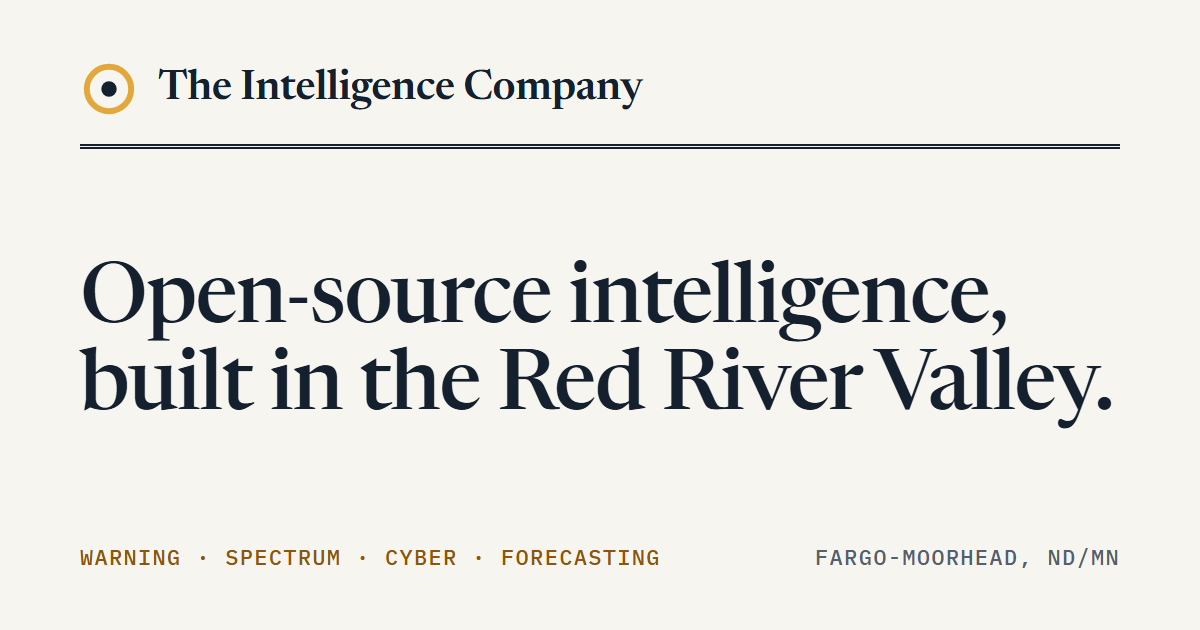
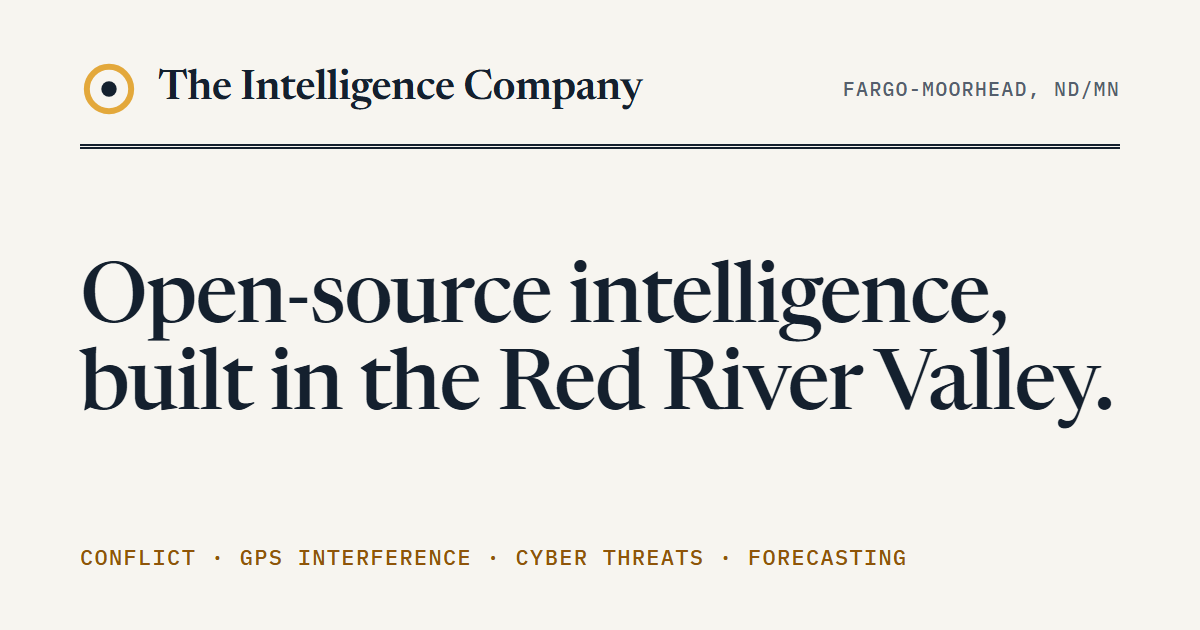
Hub: bio, headshot, LinkedIn, (c) notice, plain summaries, real screenshots, Elements and Cordon
- About: reworded bio ("He has served in the Air National Guard for 25 years..."),
  Tom's headshot (img/thomas-brummer.webp) and a LinkedIn link; founder image and
  sameAs in the JSON-LD.
- "(c) 2026 Thomas Brummer" under the drawing and first in both footers.
- Every Latest line opens with a bold topic (GPS interference, Conflict warning,
  Cyber threats); setItem fills only .latest-body. "GPS" replaces "GNSS" and "the
  contested radio spectrum"; top line "Conflict · GPS interference · Cyber threats
  · Forecasting"; preview card re-rendered.
- Screenshots of the real sites with real data: Noisefloor's Today page,
  Watchfloor's 30 Oct zone board, Vigil's signed-in Threat Actors view (group
  names only). Old images removed.
- Elements and Cordon shown as beta with links and guide questions; their lines
  say what v0 covers and what is planned. Also in the product list and 404.

Changed region(s): [[0.0617, 0.8746, 0.5858, 0.9048], [0.6167, 0.8746, 0.9558, 0.9048], [0.7092, 0.1206, 0.9558, 0.1508]]

diff --git a/site/index.html b/site/index.html
@@ -5,24 +5,25 @@
 <meta name="viewport" content="width=device-width, initial-scale=1">
 <title>The Intelligence Company · OSINT from Fargo-Moorhead, ND/MN</title>
 <link rel="canonical" href="https://theintelligence.company/">
-<meta name="description" content="Open-source intelligence tools from Fargo-Moorhead, ND/MN: conflict warning, the contested radio spectrum, cyber threats and verified forecasting.">
+<meta name="description" content="Open-source intelligence tools from Fargo-Moorhead, ND/MN: conflict warning, GPS jamming and spoofing, cyber threats and verified forecasting.">
 <meta property="og:type" content="website">
 <meta property="og:site_name" content="The Intelligence Company">
 <meta property="og:title" content="The Intelligence Company">
-<meta property="og:description" content="Open-source intelligence tools from Fargo-Moorhead, ND/MN: conflict warning, the contested radio spectrum, cyber threats and verified forecasting.">
+<meta property="og:description" content="Open-source intelligence tools from Fargo-Moorhead, ND/MN: conflict warning, GPS jamming and spoofing, cyber threats and verified forecasting.">
 <meta property="og:url" content="https://theintelligence.company/">
 <meta property="og:image" content="https://theintelligence.company/img/og-card.png">
 <meta property="og:image:width" content="1200">
 <meta property="og:image:height" content="630">
-<meta property="og:image:alt" content="The Intelligence Company: open-source intelligence, built in the Red River Valley. Warning, spectrum, cyber and forecasting, from Fargo-Moorhead, ND/MN.">
+<meta property="og:image:alt" content="The Intelligence Company: open-source intelligence, built in the Red River Valley. Conflict, GPS interference, cyber threats and forecasting, from Fargo-Moorhead, ND/MN.">
 <meta name="twitter:card" content="summary_large_image">
 <script type="application/ld+json">
 {"@context": "https://schema.org", "@graph": [
   {"@type": "Organization", "@id": "https://theintelligence.company/#org", "name": "The Intelligence Company",
    "url": "https://theintelligence.company/", "logo": "https://theintelligence.company/img/logo-512.png",
    "email": "support@theintelligence.company",
-   "description": "Open-source intelligence tools from publicly available information: conflict warning, the contested radio spectrum, cyber threats and verified forecasting.",
-   "founder": {"@type": "Person", "name": "Thomas Brummer"},
+   "description": "Open-source intelligence tools from publicly available information: conflict warning, GPS jamming and spoofing, cyber threats and verified forecasting.",
+   "founder": {"@type": "Person", "name": "Thomas Brummer", "image": "https://theintelligence.company/img/thomas-brummer.webp",
+     "sameAs": ["https://www.linkedin.com/in/tom-brummer/"]},
    "address": {"@type": "PostalAddress", "addressLocality": "Fargo", "addressRegion": "ND", "addressCountry": "US"}},
   {"@type": "WebSite", "@id": "https://theintelligence.company/#website", "name": "The Intelligence Company",
    "url": "https://theintelligence.company/", "publisher": {"@id": "https://theintelligence.company/#org"}}
@@ -70,10 +71,10 @@
 <main id="main">
   <section class="wrap hero">
     <div>
-      <p class="kicker">Warning · Spectrum · Cyber · Forecasting</p>
+      <p class="kicker">Conflict · GPS interference · Cyber threats · Forecasting</p>
       <h1>Open-source intelligence, built in the Red River Valley.</h1>
       <p class="lede">We build monitoring and analysis tools from publicly available information: warning on conflict,
-        the contested radio spectrum, cyber threats, and forecasts that check themselves. Every product credits its
+        GPS jamming and spoofing, cyber threats, and forecasts that check themselves. Every product credits its
         sources, dates its claims and publishes its methods.</p>
       <p class="actions">
         <a class="btn" href="#products">See the products</a>
@@ -85,17 +86,17 @@
       <h2 id="latest-h" class="label">Latest from the products</h2>
       <article class="latest-item" id="latest-noisefloor">
         <p class="latest-meta">Noisefloor</p>
-        <p class="latest-text">Today's briefing on GPS interference worldwide, from aircraft, satellite and official sources.</p>
+        <p class="latest-text"><b class="latest-topic">GPS interference:</b> <span class="latest-body">A daily briefing on where satellite navigation is being jammed or spoofed, from aircraft, satellite and official sources.</span></p>
         <a class="latest-link" href="https://noisefloor.theintelligence.company" target="_blank" rel="noopener" aria-describedby="newtab">Open Noisefloor <span aria-hidden="true">↗</span></a>
       </article>
       <article class="latest-item" id="latest-watchfloor">
         <p class="latest-meta">Watchfloor</p>
-        <p class="latest-text">How the world's news covered each conflict zone yesterday, against its own usual level.</p>
+        <p class="latest-text"><b class="latest-topic">Conflict warning:</b> <span class="latest-body">How much the world's news covered each conflict zone yesterday, against its own usual level.</span></p>
         <a class="latest-link" href="https://watchfloor.theintelligence.company" target="_blank" rel="noopener" aria-describedby="newtab">Open Watchfloor <span aria-hidden="true">↗</span></a>
       </article>
       <article class="latest-item" id="latest-vigil">
         <p class="latest-meta">Vigil</p>
-        <p class="latest-text">New victim claims on ransomware leak sites, counted by group, with the evidence kept.</p>
+        <p class="latest-text"><b class="latest-topic">Cyber threats:</b> <span class="latest-body">New victim claims on ransomware leak sites, counted by group, with the evidence kept.</span></p>
         <a class="latest-link" href="https://vigil.theintelligence.company" target="_blank" rel="noopener" aria-describedby="newtab">Open Vigil <span aria-hidden="true">↗</span></a>
       </article>
     </aside>
@@ -392,7 +393,7 @@
           </ul>
         </figure>
       </div>
-      <p class="oe-src">Drawing adapted from JP 2-01.3, <cite>Joint Intelligence Preparation of the Operational
+      <p class="oe-src">Drawing &copy; 2026 Thomas Brummer, adapted from JP 2-01.3, <cite>Joint Intelligence Preparation of the Operational
         Environment</cite> (21 May 2014), Figure I-1, &ldquo;Holistic View of the Operational Environment&rdquo;, with
         cyberspace&rsquo;s layers from pages III-22 to III-23. The human, informational and physical aspects follow the
         <cite>Joint Concept for Operating in the Information Environment</cite> (25 July 2018). Only publicly released
@@ -410,25 +411,26 @@
         <div>
           <p class="meta">Warning and monitoring · <span class="st-live">Live</span></p>
           <h3 class="feature-h">Noisefloor</h3>
-          <p class="feature-text">Where the radio spectrum is contested: GNSS jamming and spoofing, and what it does to
-            navigation and satellite links. Measures effects and states its evidence.</p>
+          <p class="feature-text">GPS interference worldwide: where satellite navigation is being jammed or spoofed,
+            mapped every day from aircraft and ship position reports, and what it does to navigation and satellite links.
+            Measures effects and states its evidence.</p>
           <ul class="points">
             <li>A daily map of where aircraft lost GPS, every day since 1 October 2025</li>
-            <li>Spoofing, satellite noise floor and radar-emitter layers</li>
+            <li>Layers for GPS spoofing, radio noise measured from orbit, and radar emitters</li>
             <li>Every object in the geostationary belt on a globe</li>
           </ul>
           <a class="more" href="https://noisefloor.theintelligence.company" target="_blank" rel="noopener" aria-describedby="newtab">Open Noisefloor <span aria-hidden="true">↗</span></a>
         </div>
         <figure>
-          <img src="img/noisefloor-map.webp" width="1600" height="909" loading="lazy" alt="Noisefloor map of North America, Europe, Africa and the Middle East, with cells where aircraft lost GPS shaded orange and brown around the Baltic, the Black Sea and the Gulf">
-          <figcaption>Noisefloor's map of where aircraft lost GPS (screenshot, 28 Oct 2026).</figcaption>
+          <img src="img/noisefloor-today.webp" width="1600" height="1000" loading="lazy" alt="Noisefloor's Today page for 30 Oct 2026: the day's briefing, counts of areas with GPS interference, active spoofing episodes and aircraft over Kaliningrad sending no GPS position, and a map of where aircraft lost GPS over northern Europe">
+          <figcaption>Noisefloor's daily briefing on GPS interference (screenshot, 31 Oct 2026).</figcaption>
         </figure>
       </div>
 
       <div class="feature feature-rev">
         <figure>
-          <img src="img/watchfloor.webp" width="1600" height="1029" loading="lazy" alt="Watchfloor's table of conflict zones with story counts and each zone's attention against its typical level">
-          <figcaption>Watchfloor's zone board (screenshot, 28 Oct 2026).</figcaption>
+          <img src="img/watchfloor-zones.webp" width="1600" height="1000" loading="lazy" alt="Watchfloor's zone board for 30 Oct 2026: conflict zones with story counts, news attention against each zone's usual level, and reported violence against its usual level">
+          <figcaption>Watchfloor's zone board for 30 Oct 2026 (screenshot, 31 Oct 2026).</figcaption>
         </figure>
         <div>
           <p class="meta">Warning and monitoring · <span class="st-beta">Beta</span></p>
@@ -453,18 +455,20 @@
           <a class="more" href="https://vigil.theintelligence.company" target="_blank" rel="noopener" aria-describedby="newtab">Open Vigil <span aria-hidden="true">↗</span></a>
         </div>
         <figure>
-          <img src="img/vigil.webp" width="1500" height="1370" loading="lazy" alt="Vigil's dashboard: counts of tracked threat actors and of incidents in the last 30 days, and a list of ransomware groups marked escalating, with the victims each claimed this week">
-          <figcaption>Vigil's public dashboard, with the ransomware groups it rates as escalating (screenshot, 31 Oct 2026).</figcaption>
+          <img src="img/vigil-actors.webp" width="1600" height="1000" loading="lazy" alt="Vigil's Threat Actors view as a signed-in user sees it: 4,630 tracked actors, counts of escalating, stable and declining groups, and ransomware groups ranked by victims claimed in the last seven days against the seven days before, with trend lines and status">
+          <figcaption>Vigil's Threat Actors view, signed in: groups ranked by this week's claims against last week's (screenshot, 31 Oct 2026).</figcaption>
         </figure>
       </div>
 
       <h3 class="label list-h">Every product</h3>
       <ul class="plist">
-        <li data-product="noisefloor"><a href="https://noisefloor.theintelligence.company" target="_blank" rel="noopener" aria-describedby="newtab"><span class="p-name">Noisefloor</span><span class="p-what">Where the radio spectrum is contested: GNSS jamming and spoofing, and its effects on navigation and satellite links.</span><span class="p-st st-live">Live · Open <span aria-hidden="true">↗</span></span></a></li>
+        <li data-product="noisefloor"><a href="https://noisefloor.theintelligence.company" target="_blank" rel="noopener" aria-describedby="newtab"><span class="p-name">Noisefloor</span><span class="p-what">GPS interference: where satellite navigation is jammed or spoofed, mapped every day from aircraft and ship reports, with its effects on navigation and satellite links.</span><span class="p-st st-live">Live · Open <span aria-hidden="true">↗</span></span></a></li>
         <li data-product="watchfloor"><a href="https://watchfloor.theintelligence.company" target="_blank" rel="noopener" aria-describedby="newtab"><span class="p-name">Watchfloor</span><span class="p-what">A daily warning picture for every conflict zone and strategic topic on its watch list, built from the world's news.</span><span class="p-st st-beta">Beta · Open <span aria-hidden="true">↗</span></span></a></li>
         <li data-product="vigil"><a href="https://vigil.theintelligence.company" target="_blank" rel="noopener" aria-describedby="newtab"><span class="p-name">Vigil</span><span class="p-what">Cyber threat intelligence: ransomware, exploited vulnerabilities and threat indicators, with the history kept.</span><span class="p-st st-live">Live · Open <span aria-hidden="true">↗</span></span></a></li>
         <li><a href="https://context.theintelligence.company" target="_blank" rel="noopener" aria-describedby="newtab"><span class="p-name">Context</span><span class="p-what">How the world's press is covering each watched conflict zone and strategic topic, refreshed twice a day. Watchfloor's predecessor.</span><span class="p-st st-live">Live · Open <span aria-hidden="true">↗</span></span></a></li>
         <li data-product="cop"><a href="https://cop.theintelligence.company" target="_blank" rel="noopener" aria-describedby="newtab"><span class="p-name">COP</span><span class="p-what">The common operational picture: every program's latest findings on one map, with today's top five, what else is unusual, and each feed's health.</span><span class="p-st st-beta">Beta · Open <span aria-hidden="true">↗</span></span></a></li>
+        <li data-product="elements"><a href="https://metacog-osint.github.io/elements/" target="_blank" rel="noopener" aria-describedby="newtab"><span class="p-name">Elements</span><span class="p-what">Natural hazards as the authorities report them: earthquakes, storms, multi-hazard alerts and disaster mapping on one map.</span><span class="p-st st-beta">Beta · Open <span aria-hidden="true">↗</span></span></a></li>
+        <li data-product="cordon"><a href="https://metacog-osint.github.io/cordon/" target="_blank" rel="noopener" aria-describedby="newtab"><span class="p-name">Cordon</span><span class="p-what">Where authorities warn people away: travel advisories, embassy departures, airspace conflict-zone bulletins and navigational warnings at sea, on one map.</span><span class="p-st st-beta">Beta · Open <span aria-hidden="true">↗</span></span></a></li>
         <li><a href="https://propertycast.theintelligence.company" target="_blank" rel="noopener" aria-describedby="newtab"><span class="p-name">PropertyCast</span><span class="p-what">A hyperlocal forecast for one property that verifies itself every hour against its own weather station, with a garden decision layer.</span><span class="p-st st-live">Live · Open <span aria-hidden="true">↗</span></span></a></li>
         <li><a href="https://activation.theintelligence.company" target="_blank" rel="noopener" aria-describedby="newtab"><span class="p-name">Title 10 Field Guide</span><span class="p-what">What activated Air Guard members earn on federal orders, what gets missed, and what to do before and after release. Unofficial; compiled from public sources.</span><span class="p-st st-live">Live · Open <span aria-hidden="true">↗</span></span></a></li>
         <li><a href="https://listeningpost.theintelligence.company" target="_blank" rel="noopener" aria-describedby="newtab"><span class="p-name">Listening Post</span><span class="p-what">A job-search workspace: each opening scored against your own criteria, new postings found by a weekly sweep, and drafts you review and send yourself. Google sign-in, by invitation.</span><span class="p-st st-invite">Invite only · Open <span aria-hidden="true">↗</span></span></a></li>
@@ -510,14 +514,22 @@
   <section id="about" class="wrap about" aria-labelledby="about-h">
     <p class="kicker">About</p>
     <h2 id="about-h" class="section-h">Professional analytic standards, applied to public information.</h2>
+    <div class="about-body">
+    <figure class="about-photo">
+      <img src="img/thomas-brummer.webp" width="480" height="480" loading="lazy" alt="Thomas Brummer">
+      <figcaption>Thomas Brummer</figcaption>
+    </figure>
     <div class="about-text">
-      <p>The Intelligence Company is based in Fargo-Moorhead, on the North Dakota&ndash;Minnesota border, and run by Thomas Brummer. In 25 years of service he began
-        as an F-16 crew chief and Air Force weather forecaster, and has spent more than half his career as a signals
-        intelligence (SIGINT) analyst, today in the Air National Guard.</p>
+      <p>The Intelligence Company is based in Fargo-Moorhead, on the North Dakota&ndash;Minnesota border, and run by
+        Thomas Brummer. He has served in the Air National Guard for 25 years. He started as an F-16 crew chief and an
+        Air Force weather forecaster, and has spent more than half his career as a signals intelligence (SIGINT)
+        analyst.</p>
       <p>Each of those jobs asks the same thing: judge the state of a complex system under pressure, whether a jet, the
         weather or an adversary's network, and say how sure you are. The company's products follow the same rules:
         sources credited and licensed, claims dated, uncertainty stated, and methods and validation published alongside
         them.</p>
+      <p><a class="more" href="https://www.linkedin.com/in/tom-brummer/" target="_blank" rel="noopener" aria-describedby="newtab">Thomas Brummer on LinkedIn <span aria-hidden="true">↗</span></a></p>
+    </div>
     </div>
   </section>
 
@@ -534,7 +546,7 @@
 
 <footer class="foot">
   <div class="wrap foot-inner">
-    <p>The Intelligence Company · Fargo-Moorhead, ND/MN · Updated <time datetime="2026-10-31T21:51:00Z" data-tic="date" data-tic-year>31 Oct 2026</time></p>
+    <p>&copy; 2026 Thomas Brummer · The Intelligence Company · Fargo-Moorhead, ND/MN · Updated <time datetime="2026-10-31T22:23:00Z" data-tic="date" data-tic-year>31 Oct 2026</time></p>
     <p>Data sources and licences, credited by each product:
       <a href="https://noisefloor.theintelligence.company/sources" target="_blank" rel="noopener" aria-describedby="newtab">Noisefloor</a> ·
       <a href="https://watchfloor.theintelligence.company/#/sources" target="_blank" rel="noopener" aria-describedby="newtab">Watchfloor</a> ·

diff --git a/site/404.html b/site/404.html
@@ -26,11 +26,13 @@
   <h1>That page isn&rsquo;t here.</h1>
   <p class="lede">The link may be old or mistyped. Each product lives at its own address:</p>
   <ul class="plist">
-        <li><a href="https://noisefloor.theintelligence.company" target="_blank" rel="noopener" aria-describedby="newtab"><span class="p-name">Noisefloor</span><span class="p-what">Where the radio spectrum is contested: GNSS jamming and spoofing, and its effects on navigation and satellite links.</span><span class="p-st st-live">Live · Open <span aria-hidden="true">↗</span></span></a></li>
+        <li><a href="https://noisefloor.theintelligence.company" target="_blank" rel="noopener" aria-describedby="newtab"><span class="p-name">Noisefloor</span><span class="p-what">GPS interference: where satellite navigation is jammed or spoofed, mapped every day from aircraft and ship reports, with its effects on navigation and satellite links.</span><span class="p-st st-live">Live · Open <span aria-hidden="true">↗</span></span></a></li>
         <li><a href="https://watchfloor.theintelligence.company" target="_blank" rel="noopener" aria-describedby="newtab"><span class="p-name">Watchfloor</span><span class="p-what">A daily warning picture for every conflict zone and strategic topic on its watch list, built from the world's news.</span><span class="p-st st-beta">Beta · Open <span aria-hidden="true">↗</span></span></a></li>
         <li><a href="https://vigil.theintelligence.company" target="_blank" rel="noopener" aria-describedby="newtab"><span class="p-name">Vigil</span><span class="p-what">Cyber threat intelligence: ransomware, exploited vulnerabilities and threat indicators, with the history kept.</span><span class="p-st st-live">Live · Open <span aria-hidden="true">↗</span></span></a></li>
         <li><a href="https://context.theintelligence.company" target="_blank" rel="noopener" aria-describedby="newtab"><span class="p-name">Context</span><span class="p-what">How the world's press is covering each watched conflict zone and strategic topic, refreshed twice a day. Watchfloor's predecessor.</span><span class="p-st st-live">Live · Open <span aria-hidden="true">↗</span></span></a></li>
         <li data-product="cop"><a href="https://cop.theintelligence.company" target="_blank" rel="noopener" aria-describedby="newtab"><span class="p-name">COP</span><span class="p-what">The common operational picture: every program's latest findings on one map, with today's top five, what else is unusual, and each feed's health.</span><span class="p-st st-beta">Beta · Open <span aria-hidden="true">↗</span></span></a></li>
+        <li data-product="elements"><a href="https://metacog-osint.github.io/elements/" target="_blank" rel="noopener" aria-describedby="newtab"><span class="p-name">Elements</span><span class="p-what">Natural hazards as the authorities report them: earthquakes, storms, multi-hazard alerts and disaster mapping on one map.</span><span class="p-st st-beta">Beta · Open <span aria-hidden="true">↗</span></span></a></li>
+        <li data-product="cordon"><a href="https://metacog-osint.github.io/cordon/" target="_blank" rel="noopener" aria-describedby="newtab"><span class="p-name">Cordon</span><span class="p-what">Where authorities warn people away: travel advisories, embassy departures, airspace conflict-zone bulletins and navigational warnings at sea, on one map.</span><span class="p-st st-beta">Beta · Open <span aria-hidden="true">↗</span></span></a></li>
         <li><a href="https://propertycast.theintelligence.company" target="_blank" rel="noopener" aria-describedby="newtab"><span class="p-name">PropertyCast</span><span class="p-what">A hyperlocal forecast for one property that verifies itself every hour against its own weather station, with a garden decision layer.</span><span class="p-st st-live">Live · Open <span aria-hidden="true">↗</span></span></a></li>
         <li><a href="https://activation.theintelligence.company" target="_blank" rel="noopener" aria-describedby="newtab"><span class="p-name">Title 10 Field Guide</span><span class="p-what">What activated Air Guard members earn on federal orders, what gets missed, and what to do before and after release. Unofficial; compiled from public sources.</span><span class="p-st st-live">Live · Open <span aria-hidden="true">↗</span></span></a></li>
         <li><a href="https://listeningpost.theintelligence.company" target="_blank" rel="noopener" aria-describedby="newtab"><span class="p-name">Listening Post</span><span class="p-what">A job-search workspace: each opening scored against your own criteria, new postings found by a weekly sweep, and drafts you review and send yourself. Google sign-in, by invitation.</span><span class="p-st st-invite">Invite only · Open <span aria-hidden="true">↗</span></span></a></li>
@@ -40,7 +42,7 @@
 
 <footer class="foot">
   <div class="wrap foot-inner">
-    <p>The Intelligence Company · Fargo-Moorhead, ND/MN · <a href="mailto:support@theintelligence.company">support@theintelligence.company</a></p>
+    <p>&copy; 2026 Thomas Brummer · The Intelligence Company · Fargo-Moorhead, ND/MN · <a href="mailto:support@theintelligence.company">support@theintelligence.company</a></p>
   </div>
 </footer>
 <p id="newtab" hidden>Opens in a new tab</p>

diff --git a/site/oe/oe.js b/site/oe/oe.js
@@ -115,18 +115,20 @@
       line: "Where GPS and other satellite navigation is jammed or spoofed, mapped every day from aircraft and ship position reports, with satellite and space-weather context." },
 
     { id: "fieldcast", name: "FieldCast", status: "dev", home: "space", reach: ["ems", "air", "land"], at: [610, 900],
-      ask: "Will space weather throw off GNSS in the field?",
-      line: "An outlook for GNSS and RTK reliability in the field, from ionospheric disturbance measured at public base stations. Validated on the May and October 2024 storms." },
+      ask: "Will space weather throw off GPS in the field?",
+      line: "An outlook for GPS reliability in the field, including high-precision (RTK) positioning, from ionospheric disturbance measured at public base stations. Validated on the May and October 2024 storms." },
     { id: "orbit", name: "Orbit", status: "planned", home: "space", reach: ["ems", "land", "systems"], at: [862, 904],
       line: "Space: catalog changes, launches, manoeuvres and counterspace events." },
 
-    { id: "cordon", name: "Cordon", status: "planned", home: "air", reach: ["land", "space", "systems", "human"], at: [756, 1036], end: true,
-      line: "Hazard notices: NOTAMs, navigational warnings, launch hazard areas, conflict-zone bulletins, and State Department travel advisories and embassy posture." },
+    { id: "cordon", name: "Cordon", status: "beta", home: "air", reach: ["land", "space", "systems", "human"], at: [756, 1036], end: true,
+      href: "https://metacog-osint.github.io/cordon/", ask: "Where are authorities warning people away?",
+      line: "Where authorities warn people away: State Department travel advisories and embassy departure status, EASA conflict-zone bulletins for airspace, and NGA navigational warnings at sea. NOTAMs and launch hazard areas are planned." },
     { id: "weather", name: "Weather impact", status: "planned", working: true, home: "air", reach: ["land", "space"], at: [560, 1018],
       line: "Theatre weather and illumination, and their effects on operations in each zone." },
 
-    { id: "elements", name: "Elements", status: "planned", home: "land", reach: ["air", "systems", "human"], at: [530, 1125],
-      line: "Natural hazards: quakes, volcanoes, fires, floods and storms, with a US nuclear and radiation lane." },
+    { id: "elements", name: "Elements", status: "beta", home: "land", reach: ["air", "systems", "human"], at: [530, 1125],
+      href: "https://metacog-osint.github.io/elements/", ask: "Where are natural hazards hitting?",
+      line: "Natural hazards as the authorities report them: USGS earthquakes with impact alerts, GDACS alerts, hurricane-center storms and Copernicus disaster mapping on one map. Fires, volcanoes and a radiation lane are planned." },
     { id: "wake", name: "Wake", status: "planned", home: "land", reach: ["ems", "systems"], at: [900, 1152],
       line: "Maritime: AIS gaps, the shadow fleet, chokepoint and port throughput, and piracy." }
   ];

diff --git a/tools/og-card.html b/tools/og-card.html
@@ -14,6 +14,8 @@ body { width: 1200px; height: 630px; overflow: hidden; background: #F7F5F0; colo
 .card { box-sizing: border-box; height: 630px; padding: 60px 80px 58px; display: flex; flex-direction: column; }
 .mast { display: flex; align-items: center; gap: 20px; padding-bottom: 26px; border-bottom: 5px double #14202E;
   font: 600 42px/1.1 "Newsreader", Georgia, serif; letter-spacing: -.01em; }
+.mast .where { margin-left: auto; font: 500 20px/1.3 "IBM Plex Mono", Consolas, monospace; letter-spacing: .06em;
+  text-transform: uppercase; color: #555F6D; }
 h1 { flex: 1; margin: 0; display: flex; align-items: center; font: 500 84px/1.04 "Newsreader", Georgia, serif;
   letter-spacing: -.02em; }
 .foot { display: flex; justify-content: space-between; align-items: baseline; gap: 24px;
@@ -27,9 +29,10 @@ h1 { flex: 1; margin: 0; display: flex; align-items: center; font: 500 84px/1.04
   <div class="mast">
     <svg width="58" height="58" viewBox="0 0 34 34" aria-hidden="true"><circle cx="17" cy="17" r="13" fill="none" stroke="#E3A83B" stroke-width="3.5"/><circle cx="17" cy="17" r="4.5" fill="#14202E"/></svg>
     The Intelligence Company
+    <span class="where">Fargo-Moorhead, ND/MN</span>
   </div>
   <h1>Open-source intelligence, built in the Red&nbsp;River&nbsp;Valley.</h1>
-  <div class="foot"><span class="lines">Warning · Spectrum · Cyber · Forecasting</span><span class="where">Fargo-Moorhead, ND/MN</span></div>
+  <div class="foot"><span class="lines">Conflict · GPS interference · Cyber threats · Forecasting</span></div>
 </div>
 </body>
 </html>

diff --git a/site/style.css b/site/style.css
@@ -95,6 +95,7 @@ h1 { font: 500 clamp(2.6rem, 5.6vw, 4.75rem)/1.04 var(--serif); letter-spacing: 
 .latest h2 + .latest-item { margin-top: 14px; }
 .latest-meta { font: 400 13px/1.4 var(--mono); color: var(--acc); margin-bottom: 6px; }
 .latest-text { font: 400 21px/1.35 var(--serif); margin-bottom: 10px; }
+.latest-topic { font-weight: 600; } /* says what each line measures, whatever the feed's own wording */
 .latest-link { font-size: 15px; font-weight: 500; }
 
 /* Products */
@@ -147,7 +148,13 @@ figcaption { margin-top: 10px; font: 400 13px/1.45 var(--mono); color: var(--mut
 /* About and contact */
 .about { padding-top: 88px; padding-bottom: 88px; }
 .about .section-h { max-width: 20em; margin-bottom: 28px; }
+.about-body { display: grid; grid-template-columns: 200px minmax(0, 40em); gap: 24px 48px; align-items: start; }
+.about-photo img { width: 200px; height: 200px; object-fit: cover; }
 .about-text { max-width: 40em; display: flex; flex-direction: column; gap: 18px; font-size: 18px; }
+@media (max-width: 640px) {
+  .about-body { grid-template-columns: 1fr; }
+  .about-photo img { width: 140px; height: 140px; }
+}
 .about-text p + p { color: var(--body); }
 .contact { border-top: 1px solid var(--rule); }
 .contact-inner { display: flex; flex-wrap: wrap; gap: 20px 64px; align-items: baseline; justify-content: space-between; padding-top: 72px; padding-bottom: 72px; }

diff --git a/site/site.js b/site/site.js
@@ -64,7 +64,7 @@
     var el = document.getElementById(id);
     if (!el || !text) return;
     el.querySelector(".latest-meta").textContent = meta;
-    el.querySelector(".latest-text").textContent = text;
+    el.querySelector(".latest-body").textContent = text; // the topic lead-in ("GPS interference:") stays
   }
 
   // Noisefloor: the briefing's bottom line for the newest aircraft day.

diff --git a/CLAUDE.md b/CLAUDE.md
@@ -11,7 +11,12 @@ Intelligence Company site. Started 27 Oct 2026 at Tom's request after a review o
   (one word since 27 Oct; `[local path]`), Vigil, CONTEXT (`[local path]`), PropertyCast
   (stays here for now), Title 10 Field Guide (`activation.`), Listening Post (invite-only job-search app; listed on the hub
   as "Invite only" since 27 Oct), COP (`cop.`, `[local path]`; the common operational picture, beta since 31 Oct
-  2026, public and non-commercial for now).
+  2026, public and non-commercial for now), Elements (natural hazards) and Cordon (where authorities warn people
+  away), both beta on the hub since 31 Oct 2026 (Tom's yes). Both are still on GitHub Pages
+  (`metacog-osint.github.io/elements/`, `/cordon/`), not subdomains, so the shared time cookie doesn't reach them;
+  moving them to `elements.` and `cordon.` takes a Squarespace DNS record each. Their drawing lines say what v0
+  covers and what is planned (Elements: fires, volcanoes, radiation; Cordon: NOTAMs, launch hazard areas); update
+  the lines as those arrive.
 - Names for new intel products come from the vocabulary of watching and listening.
 - Each product keeps its own colours. Every site carries the house layer: the footer pattern (who, updated date,
   source code and licence if public, terms, data credits, Sources page), the same About structure (what it is,
@@ -74,8 +79,26 @@ Intelligence Company site. Started 27 Oct 2026 at Tom's request after a review o
 - Local preview with the live headers: `python tools/serve.py 5055` serves `site/` with every `firebase.json` header,
   CSP included (`firebase serve` skips them).
 - Product screenshots in `site/img/` (WebP, 2x, captions dated): retake with headless Edge when a product changes.
+  **They must show the real site with real data, as a signed-in user sees it, header included** (Tom, 31 Oct 2026),
+  never a signed-out landing page, demo mode (Vigil's demo is mock data) or a bare map. Current:
+  `noisefloor-today.webp` and `watchfloor-zones.webp` (whole 1280×800 view at 2x, scaled to 1600×1000; Noisefloor's
+  map needs WebGL, so run Edge with `--enable-unsafe-swiftshader --use-angle=swiftshader`, not `--disable-gpu`).
+  Signed-in captures: Tom signs in once in a visible Edge window using a separate profile
+  (`--user-data-dir=%TEMP%\edge-vigil`); after he closes it (stop any Edge processes still on that profile), a
+  Playwright script using Vigil's own `node_modules/playwright-core` with `channel: "msedge"`,
+  `launchPersistentContext` on that profile, 1280×800 at `deviceScaleFactor: 2` captures the pages. Then the profile
+  folder is deleted so no session is left on disk. Claude never sees the password or the session. Vigil's welcome
+  tour covers the page on a fresh profile; it is remembered only in local storage (`vigil_tour_completed`), so the
+  script sets that key with `addInitScript`, with no clicks and nothing changed on Tom's account.
+  `vigil-actors.webp` (31 Oct 2026) is the signed-in Threat Actors view: real data, group names only. The signed-in
+  dashboard's AI summary names victims, so it isn't used.
 - Local preview: `python tools/serve.py 5055` (applies the `firebase.json` headers). `firebase serve --only hosting:hub
   --port 5055 --project context-484804` also works but skips the headers, so a CSP problem only shows up live.
+- About bio, reworded 31 Oct 2026 because "In 25 years of service he began…" read clunkily (Tom): "…and run by Thomas
+  Brummer. He has served in the Air National Guard for 25 years. He started as an F-16 crew chief and an Air Force
+  weather forecaster, and has spent more than half his career as a signals intelligence (SIGINT) analyst." Under the
+  About sits a "Thomas Brummer on LinkedIn" link (https://www.linkedin.com/in/tom-brummer/, also `sameAs` on the
+  founder in the JSON-LD). LinkedIn shows signed-out visitors a sign-in wall, so his photo can't be fetched from there.
 - The About bio (short version, Tom approved 30 Oct 2026, so it doesn't read as a résumé): 25 years of service (all
   Air National Guard: "25 years of service" and "25 years in the ANG" are the same thing), starting as an F-16 crew
   chief and Air Force weather forecaster, more than half his career a SIGINT analyst, today in the Guard. Second
@@ -103,7 +126,13 @@ Intelligence Company site. Started 27 Oct 2026 at Tom's request after a review o
     http://127.0.0.1:5056/tools/og-card.html` (512,512 and `logo.html` for the logo). Edge is at
     `C:\Program Files (x86)\Microsoft\Edge\Application\msedge.exe`. LinkedIn caches previews; its Post Inspector
     refreshes one.
-  - **Hero top line:** "Warning · Spectrum · Cyber · Forecasting" (it used to repeat the headline).
+  - **Hero top line:** "Conflict · GPS interference · Cyber threats · Forecasting" since 31 Oct 2026 (first
+    "Warning · Spectrum · Cyber · Forecasting"; it used to repeat the headline). Keep it to one line at 1280 px.
+  - **Say what each line measures** (Tom, 31 Oct 2026: readers must know Noisefloor is about GPS interference, and
+    the same goes for every summary). Each "Latest" item starts with a bold topic (`.latest-topic`: "GPS
+    interference:", "Conflict warning:", "Cyber threats:"), and `setItem` fills only `.latest-body`, so the topic
+    stays whatever the feed says. The hub says "GPS" for Noisefloor and FieldCast, never "GNSS" or "the contested
+    radio spectrum". Noisefloor's own brief still says "degraded aircraft", which is Noisefloor's wording to fix.
   - **Footer date** uses `data-tic-year`: "Updated 31 Oct 2026" in the viewer's zone.
   - **Footer Sources links:** Noisefloor `/sources`, Watchfloor `/#/sources`, Vigil `/sources`, PropertyCast
     `/#sources`, Title 10 `/#contacts` ("Contacts & sources"). Context and Listening Post have no Sources page yet, so
@@ -131,7 +160,7 @@ Intelligence Company site. Started 27 Oct 2026 at Tom's request after a review o
   - **"Updated … ago"** under Noisefloor and Watchfloor in the product list (`site.js` `setFresh`, keyed by
     `li[data-product]`), from Noisefloor's `built_utc` and Watchfloor's `built_at`; the tooltip gives the full time in the
     viewer's zone. Add a product by giving its row `data-product` and calling `setFresh` with its feed's build time.
-  - **Vigil feature block** with `img/vigil.webp`: Vigil's public landing page, captured with headless Edge at
+  - **Vigil feature block** (first shot `img/vigil.webp`, the signed-out landing page, replaced on 31 Oct 2026 by the signed-in `vigil-actors.webp`; see Product screenshots). The first was captured with headless Edge at
     1280×800 and `--force-device-scale-factor=2`, then cropped to box (0, 115, 1500, 1485) with Pillow. The crop
     deliberately leaves out "Recent Incidents": **don't put leak-site victim names on the hub.** The three points are
     from Vigil's README. Vigil's other pages need an account.
@@ -150,6 +179,13 @@ Intelligence Company site. Started 27 Oct 2026 at Tom's request after a review o
     scoring, which COP doesn't do). `kind()` and `statusWords()` now follow status for core programs too: a planned
     core program (Verdict) keeps the dashed "core" mark, while a core program that is out draws as live or beta and
     reads "Beta, core". COP is also in "Every product" and `404.html`, after Context.
-  - **Headshot**: still to do. LinkedIn shows a sign-in wall, and `Downloads\headshot.jfif` carries a Gemini watermark
-    and isn't Tom's LinkedIn photo, so it wasn't used.
+  - **Headshot** (31 Oct 2026): Tom sent his photo in chat; it is `img/thomas-brummer.webp` (480 px square), beside
+    the bio (200 px; above it on phones, 140 px) and as the founder's `image` in the JSON-LD.
+    `Downloads\headshot.jfif` is not Tom (it carries a Gemini watermark); never use it.
+  - **Copyright notice** (Tom, 31 Oct 2026: "use the copyright symbol, and my name"): "Drawing © 2026 Thomas Brummer,
+    adapted from JP 2-01.3…" under the drawing, and "© 2026 Thomas Brummer" first in the footer of `index.html` and
+    `404.html`. Registration was discussed and not done: $45 single or $65 standard at copyright.gov (a rise to $55
+    and $85 was proposed for about Nov 2026, unconfirmed). Only the human-authored parts are protectable, since the
+    JP figure is public domain and AI-generated material must be disclaimed. Trademark fits names and logos, not the
+    drawing.
 - Times: store UTC; display per the shared module. Messages to Tom use Central time.
